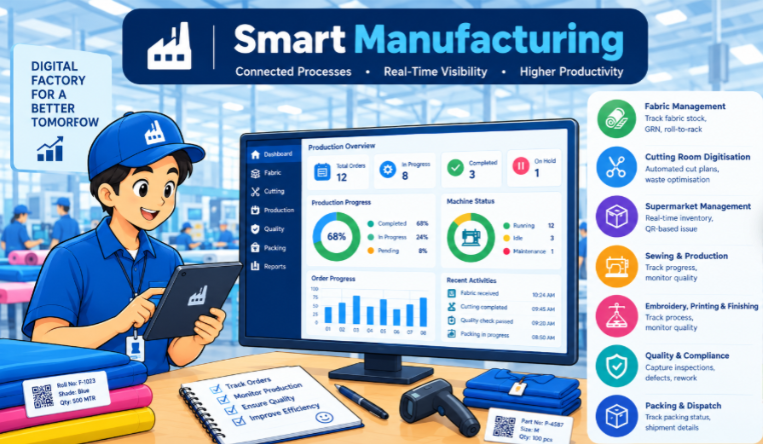
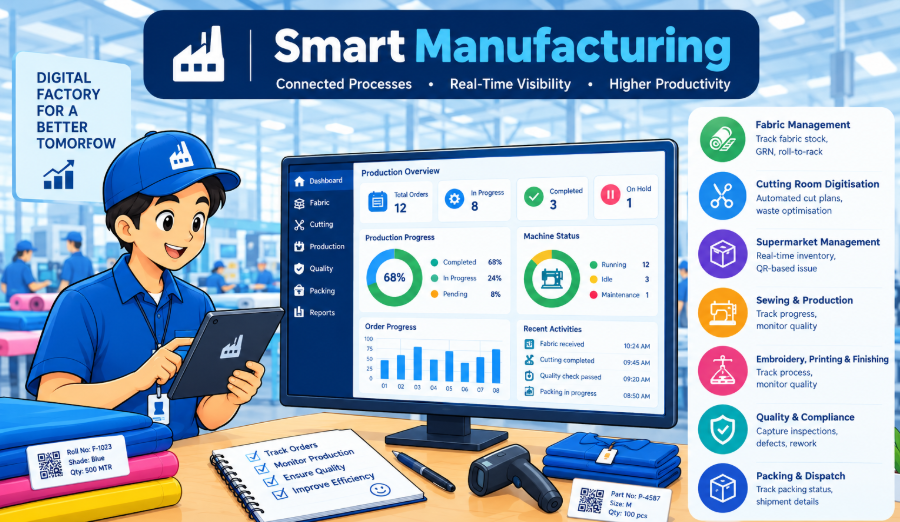
Update all 11 product graphics to original high-definition crystal clear assets from website-tts.vercel.app

diff --git a/resources/views/home.blade.php b/resources/views/home.blade.php
@@ -498,7 +498,7 @@
       <div class="space-y-3 sm:space-y-4">
 
         <!-- Full-Width Product Detail Panel (Fixed Identical Dimensions) -->
-        <div class="w-full glass-card rounded-2xl sm:rounded-3xl border border-stone-200 overflow-hidden shadow-xl md:min-h-[460px] md:h-auto lg:h-[460px] select-none touch-pan-y" id="prod-detail">
+        <div class="w-full glass-card rounded-2xl sm:rounded-3xl border border-stone-200 overflow-hidden shadow-xl md:min-h-[480px] md:h-auto lg:h-[480px] select-none touch-pan-y" id="prod-detail">
 
           <!-- trakwel (default visible) -->
           <div id="panel-trakwel" class="prod-panel flex flex-col md:flex-row w-full h-full">
@@ -508,7 +508,7 @@
               <a href="#contact" class="inline-block w-fit px-5 sm:px-7 py-2.5 sm:py-3 rounded-xl bg-orange-500 hover:bg-orange-600 text-white font-bold text-xs sm:text-sm transition shadow-md shadow-orange-500/20">Talk to our team</a>
             </div>
             <div class="md:w-3/5 h-60 sm:h-72 md:h-full overflow-hidden flex items-center justify-center bg-white p-2 sm:p-3">
-              <img src="{{ asset('images/trakwel.png') }}?v=6" alt="TrakWel - Smart Manufacturing" class="w-full h-full object-contain max-h-[300px] sm:max-h-[360px] md:max-h-none">
+              <img src="{{ asset('images/trakwel.png') }}?v=tts_hd" alt="TrakWel - Smart Manufacturing" class="w-full h-full object-contain max-h-[300px] sm:max-h-[360px] md:max-h-none">
             </div>
           </div>
 
@@ -520,7 +520,7 @@
               <a href="#contact" class="inline-block w-fit px-5 sm:px-7 py-2.5 sm:py-3 rounded-xl bg-orange-500 hover:bg-orange-600 text-white font-bold text-xs sm:text-sm transition shadow-md shadow-orange-500/20">Talk to our team</a>
             </div>
             <div class="md:w-3/5 h-60 sm:h-72 md:h-full overflow-hidden flex items-center justify-center bg-white p-2 sm:p-3">
-              <img src="{{ asset('images/fabric-inventory-management.png') }}?v=6" alt="Fabric Inventory Management" class="w-full h-full object-contain max-h-[300px] sm:max-h-[360px] md:max-h-none">
+              <img src="{{ asset('images/fabric-inventory-management.png') }}?v=tts_hd" alt="Fabric Inventory Management" class="w-full h-full object-contain max-h-[300px] sm:max-h-[360px] md:max-h-none">
             </div>
           </div>
 
@@ -532,7 +532,7 @@
               <a href="#contact" class="inline-block w-fit px-5 sm:px-7 py-2.5 sm:py-3 rounded-xl bg-orange-500 hover:bg-orange-600 text-white font-bold text-xs sm:text-sm transition shadow-md shadow-orange-500/20">Talk to our team</a>
             </div>
             <div class="md:w-3/5 h-60 sm:h-72 md:h-full overflow-hidden flex items-center justify-center bg-white p-2 sm:p-3">
-              <img src="{{ asset('images/cutting-room-digitalization.png') }}?v=6" alt="Cutting Room Digitization" class="w-full h-full object-contain max-h-[300px] sm:max-h-[360px] md:max-h-none">
+              <img src="{{ asset('images/cutting-room-digitalization.png') }}?v=tts_hd" alt="Cutting Room Digitization" class="w-full h-full object-contain max-h-[300px] sm:max-h-[360px] md:max-h-none">
             </div>
           </div>
 
@@ -544,7 +544,7 @@
               <a href="#contact" class="inline-block w-fit px-5 sm:px-7 py-2.5 sm:py-3 rounded-xl bg-orange-500 hover:bg-orange-600 text-white font-bold text-sm transition shadow-md shadow-orange-500/20">Talk to our team</a>
             </div>
             <div class="md:w-3/5 h-60 sm:h-72 md:h-full overflow-hidden flex items-center justify-center bg-white p-2 sm:p-3">
-              <img src="{{ asset('images/product-tracking.png') }}?v=6" alt="Real-Time Production Tracking" class="w-full h-full object-contain max-h-[300px] sm:max-h-[360px] md:max-h-none">
+              <img src="{{ asset('images/product-tracking.png') }}?v=tts_hd" alt="Real-Time Production Tracking" class="w-full h-full object-contain max-h-[300px] sm:max-h-[360px] md:max-h-none">
             </div>
           </div>
 
@@ -556,7 +556,7 @@
               <a href="#contact" class="inline-block w-fit px-5 sm:px-7 py-2.5 sm:py-3 rounded-xl bg-orange-500 hover:bg-orange-600 text-white font-bold text-xs sm:text-sm transition shadow-md shadow-orange-500/20">Talk to our team</a>
             </div>
             <div class="md:w-3/5 h-60 sm:h-72 md:h-full overflow-hidden flex items-center justify-center bg-white p-2 sm:p-3">
-              <img src="{{ asset('images/quality-control.png') }}?v=6" alt="Quality Management System" class="w-full h-full object-contain max-h-[300px] sm:max-h-[360px] md:max-h-none">
+              <img src="{{ asset('images/quality-control.png') }}?v=tts_hd" alt="Quality Management System" class="w-full h-full object-contain max-h-[300px] sm:max-h-[360px] md:max-h-none">
             </div>
           </div>
 
@@ -568,7 +568,7 @@
               <a href="#contact" class="inline-block w-fit px-5 sm:px-7 py-2.5 sm:py-3 rounded-xl bg-orange-500 hover:bg-orange-600 text-white font-bold text-xs sm:text-sm transition shadow-md shadow-orange-500/20">Talk to our team</a>
             </div>
             <div class="md:w-3/5 h-60 sm:h-72 md:h-full overflow-hidden flex items-center justify-center bg-white p-2 sm:p-3">
-              <img src="{{ asset('images/planwel.png') }}?v=6" alt="PlanWel" class="w-full h-full object-contain max-h-[300px] sm:max-h-[360px] md:max-h-none">
+              <img src="{{ asset('images/planwel.png') }}?v=tts_hd" alt="PlanWel" class="w-full h-full object-contain max-h-[300px] sm:max-h-[360px] md:max-h-none">
             </div>
           </div>
 
@@ -580,7 +580,7 @@
               <a href="#contact" class="inline-block w-fit px-5 sm:px-7 py-2.5 sm:py-3 rounded-xl bg-orange-500 hover:bg-orange-600 text-white font-bold text-xs sm:text-sm transition shadow-md shadow-orange-500/20">Talk to our team</a>
             </div>
             <div class="md:w-3/5 h-60 sm:h-72 md:h-full overflow-hidden flex items-center justify-center bg-white p-2 sm:p-3">
-              <img src="{{ asset('images/mTrak.png') }}?v=6" alt="mTrak" class="w-full h-full object-contain max-h-[300px] sm:max-h-[360px] md:max-h-none">
+              <img src="{{ asset('images/mTrak.png') }}?v=tts_hd" alt="mTrak" class="w-full h-full object-contain max-h-[300px] sm:max-h-[360px] md:max-h-none">
             </div>
           </div>
 
@@ -592,7 +592,7 @@
               <a href="#contact" class="inline-block w-fit px-5 sm:px-7 py-2.5 sm:py-3 rounded-xl bg-orange-500 hover:bg-orange-600 text-white font-bold text-xs sm:text-sm transition shadow-md shadow-orange-500/20">Talk to our team</a>
             </div>
             <div class="md:w-3/5 h-60 sm:h-72 md:h-full overflow-hidden flex items-center justify-center bg-white p-2 sm:p-3">
-              <img src="{{ asset('images/sew-IoT.png') }}?v=6" alt="SewIoT" class="w-full h-full object-contain max-h-[300px] sm:max-h-[360px] md:max-h-none">
+              <img src="{{ asset('images/sew-IoT.png') }}?v=tts_hd" alt="SewIoT" class="w-full h-full object-contain max-h-[300px] sm:max-h-[360px] md:max-h-none">
             </div>
           </div>
 
@@ -604,7 +604,7 @@
               <a href="#contact" class="inline-block w-fit px-5 sm:px-7 py-2.5 sm:py-3 rounded-xl bg-orange-500 hover:bg-orange-600 text-white font-bold text-xs sm:text-sm transition shadow-md shadow-orange-500/20">Talk to our team</a>
             </div>
             <div class="md:w-3/5 h-60 sm:h-72 md:h-full overflow-hidden flex items-center justify-center bg-white p-2 sm:p-3">
-              <img src="{{ asset('images/laundry-management.png') }}?v=6" alt="Laundry Management" class="w-full h-full object-contain max-h-[300px] sm:max-h-[360px] md:max-h-none">
+              <img src="{{ asset('images/laundry-management.png') }}?v=tts_hd" alt="Laundry Management" class="w-full h-full object-contain max-h-[300px] sm:max-h-[360px] md:max-h-none">
             </div>
           </div>
 
@@ -616,7 +616,7 @@
               <a href="#contact" class="inline-block w-fit px-5 sm:px-7 py-2.5 sm:py-3 rounded-xl bg-orange-500 hover:bg-orange-600 text-white font-bold text-xs sm:text-sm transition shadow-md shadow-orange-500/20">Talk to our team</a>
             </div>
             <div class="md:w-3/5 h-60 sm:h-72 md:h-full overflow-hidden flex items-center justify-center bg-white p-2 sm:p-3">
-              <img src="{{ asset('images/Jig-management.png') }}?v=6" alt="Jig Management" class="w-full h-full object-contain max-h-[300px] sm:max-h-[360px] md:max-h-none">
+              <img src="{{ asset('images/Jig-management.png') }}?v=tts_hd" alt="Jig Management" class="w-full h-full object-contain max-h-[300px] sm:max-h-[360px] md:max-h-none">
             </div>
           </div>
 
@@ -628,7 +628,7 @@
               <a href="#contact" class="inline-block w-fit px-5 sm:px-7 py-2.5 sm:py-3 rounded-xl bg-orange-500 hover:bg-orange-600 text-white font-bold text-xs sm:text-sm transition shadow-md shadow-orange-500/20">Talk to our team</a>
             </div>
             <div class="md:w-3/5 h-60 sm:h-72 md:h-full overflow-hidden flex items-center justify-center bg-white p-2 sm:p-3">
-              <img src="{{ asset('images/shrinkage-testing-app.png') }}?v=6" alt="Shrinkage Testing App" class="w-full h-full object-contain max-h-[300px] sm:max-h-[360px] md:max-h-none">
+              <img src="{{ asset('images/shrinkage-testing-app.png') }}?v=tts_hd" alt="Shrinkage Testing App" class="w-full h-full object-contain max-h-[300px] sm:max-h-[360px] md:max-h-none">
             </div>
           </div>
 
@@ -645,7 +645,7 @@
               <a href="#contact" class="inline-block w-fit px-5 sm:px-7 py-2.5 sm:py-3 rounded-xl bg-orange-500 hover:bg-orange-600 text-white font-bold text-xs sm:text-sm transition shadow-md shadow-orange-500/20 mt-3">Talk to our team</a>
             </div>
             <div class="md:w-3/5 h-60 sm:h-72 md:h-full overflow-hidden flex items-center justify-center bg-white p-2 sm:p-3">
-              <img src="{{ asset('images/laundry-management.png') }}?v=6" alt="Industry Solutions" class="w-full h-full object-contain max-h-[300px] sm:max-h-[360px] md:max-h-none">
+              <img src="{{ asset('images/laundry-management.png') }}?v=tts_hd" alt="Industry Solutions" class="w-full h-full object-contain max-h-[300px] sm:max-h-[360px] md:max-h-none">
             </div>
           </div>
 
@@ -675,8 +675,6 @@
                   aria-label="Next Product">
             <span class="hidden xs:inline sm:inline">Next</span>
             <svg class="w-4 h-4" fill="none" stroke="currentColor" viewBox="0 0 24 24"><path stroke-linecap="round" stroke-linejoin="round" stroke-width="2.5" d="M9 5l7 7-7 7"/></svg>
-          </button>
-        </div>
           </button>
         </div>
 
